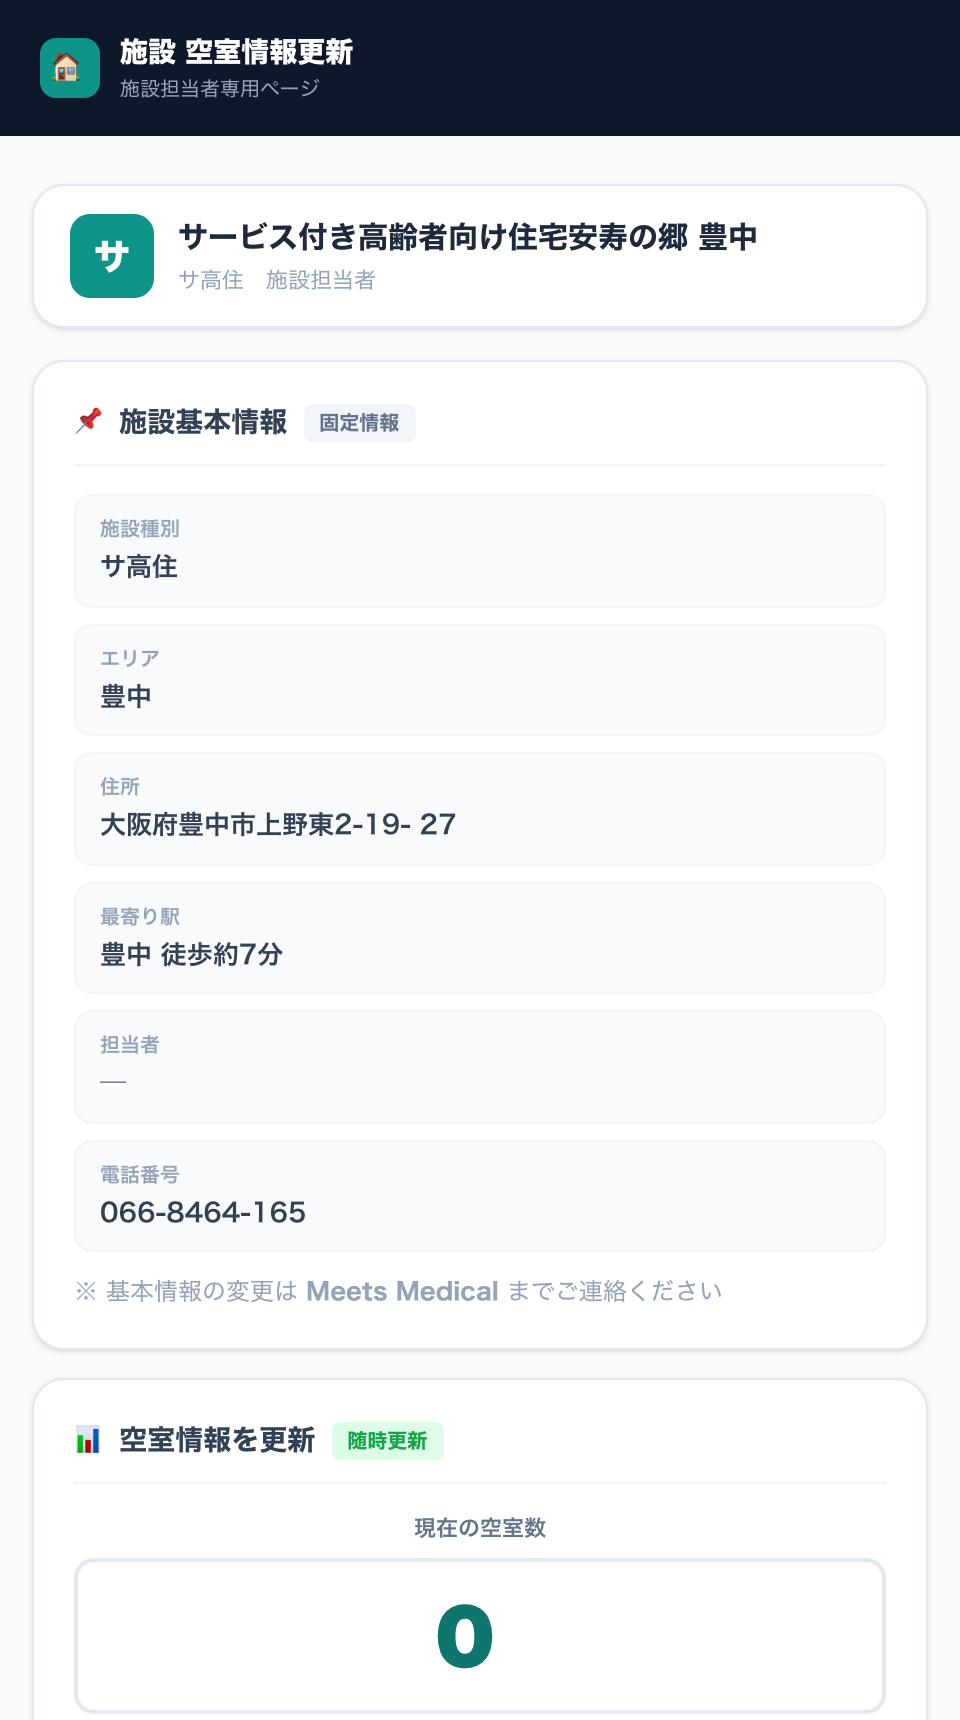
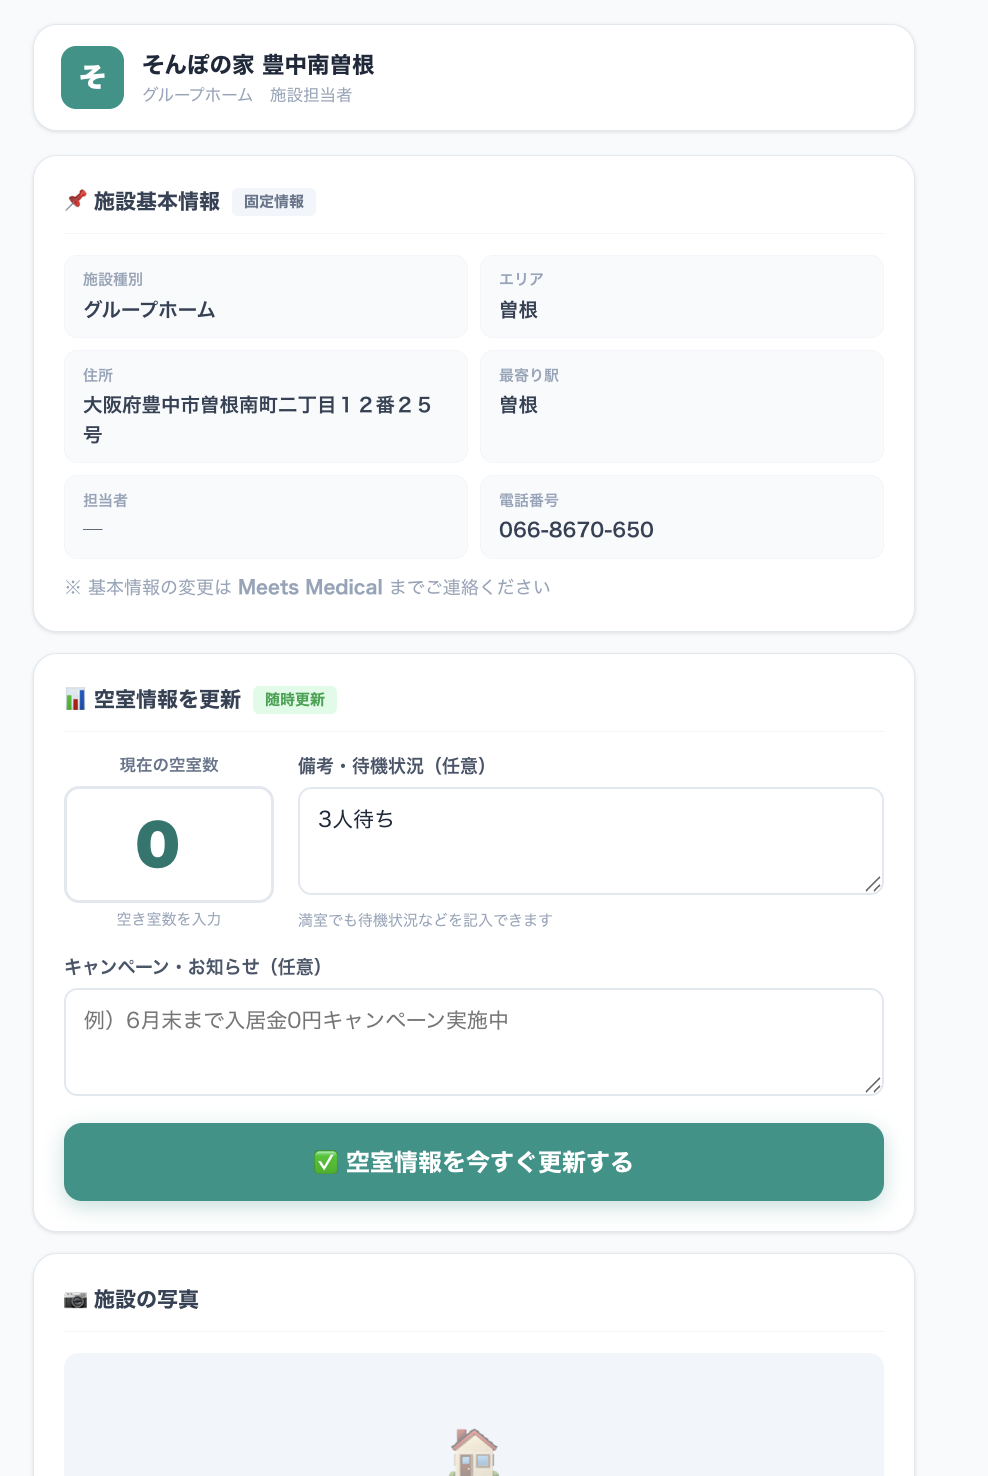
kaigo-delivery: スクショ4枚更新・共有ページカード追加

diff --git a/public/kaigo-delivery.html b/public/kaigo-delivery.html
@@ -41,7 +41,8 @@
     .sec-title { font-size:24px; font-weight:700; color:var(--g900); }
 
     /* TOOL CARDS */
-    .tool-grid { display:grid; grid-template-columns:repeat(4,1fr); gap:18px; }
+    .tool-grid { display:grid; grid-template-columns:repeat(5,1fr); gap:18px; }
+    @media(max-width:1300px){ .tool-grid { grid-template-columns:repeat(3,1fr); } }
     @media(max-width:1100px){ .tool-grid { grid-template-columns:1fr 1fr; } }
     @media(max-width:600px){ .tool-grid { grid-template-columns:1fr; } }
     .tool-card { background:white; border-radius:18px; overflow:hidden; box-shadow:0 4px 24px rgba(0,0,0,.07); border-left:4px solid var(--brand); }
@@ -239,6 +240,20 @@
           <a class="tool-link" href="kaigo-register.html" target="_blank">▶ 開く（新規登録）</a>
           <div class="tool-note">マスター管理の「📝 編集」ボタンをクリックすると既存施設の編集画面が直接開きます。</div>
           <div class="ss-wrap"><img class="ss-img" src="img/ss-register.png" alt="施設登録ページ画面"></div>
+        </div>
+      </div>
+
+      <!-- 施設共有ページ -->
+      <div class="tool-card">
+        <div class="tool-card-hd">
+          <div class="tool-badge badge-public">病院・ケアマネ向け</div>
+          <div class="tool-title">施設共有ページ</div>
+          <div class="tool-desc">施設ごとの個別ページ。空室数・備考・特徴タグ・入居相談連絡先を表示。有料プランのみ連絡先（担当者名・電話番号）を表示し、無料プランはぼかして施設HPへ誘導。病院・ケアマネへのURL共有・QR配布用。</div>
+        </div>
+        <div class="tool-card-body">
+          <div class="tool-url">https://kaigo-meetsmedical.surge.sh/kaigo-facility-view.html?id=【施設ID】</div>
+          <div class="tool-note">施設IDはマスター管理画面の「共有ページ URL」列からコピー、または📢QRコードを保存して配布できます。</div>
+          <div class="ss-wrap-mobile"><img class="ss-img-mobile" src="img/ss-facility-view.png" alt="施設共有ページ画面"></div>
         </div>
       </div>
 
